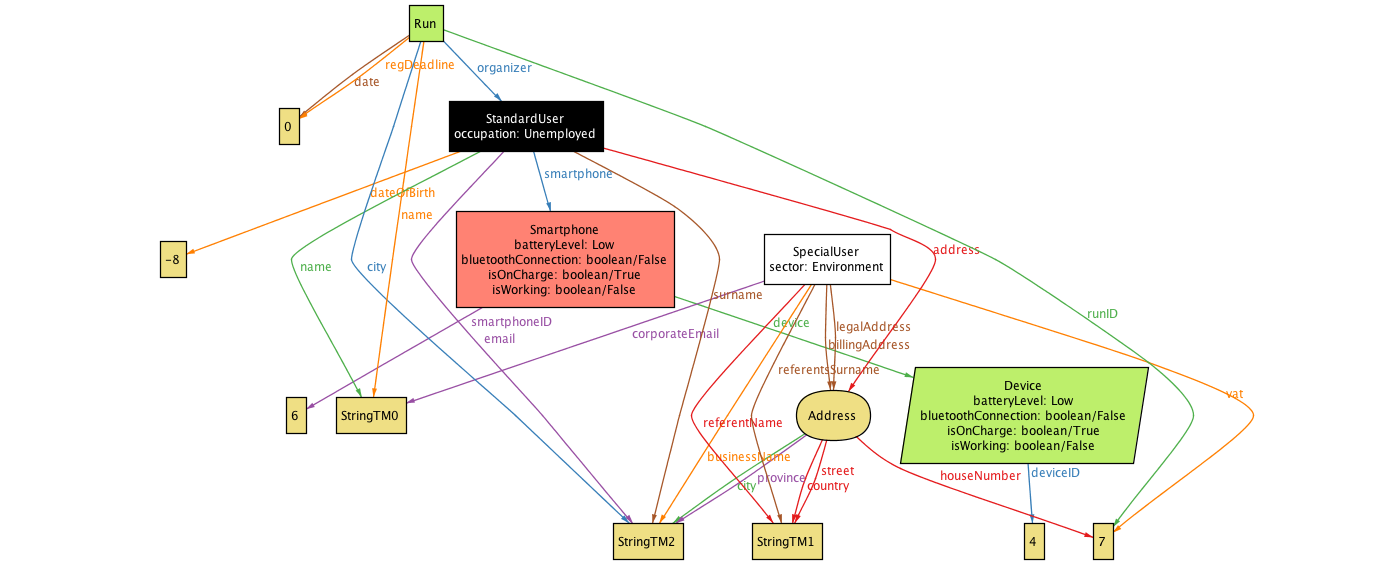
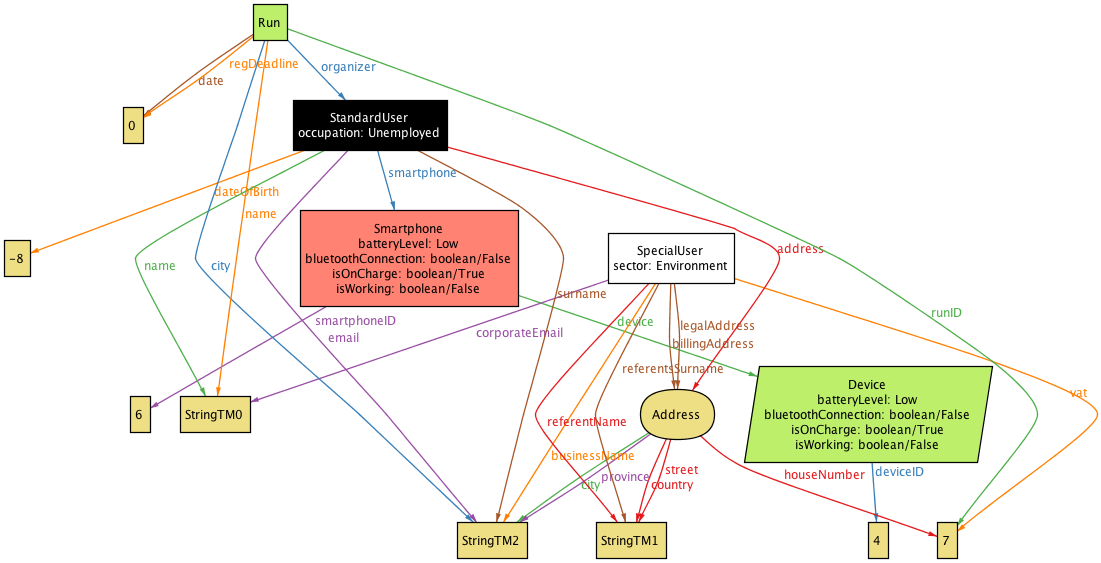
Final revision + delivery

diff --git a/RASD/files/introduction.tex b/RASD/files/introduction.tex
@@ -5,7 +5,7 @@ Track Me is a company that wants to develop three different but connected softwa
 \begin{itemize}
   \item \textbf{Data4Help}: a service that allows third parties to monitor the location and health status of individuals. Through this service third parties can request the access both to the data of some specific individuals, who can accept or refuse sharing their information , and to anonymized data of group of individuals, which will be given only if the number of the members of the group is higher than 1000, according to privacy rules.
   \item \textbf{AutomatedSOS}: a service addressed to elderly people which monitors the health status of the subscribed customers and, when such parameters are below a certain threshold (personalized for every user using the data from Data4Help), sends to the location of the customer an ambulance, guaranteeing a reaction time less than 5 second from the time the parameters are below the threshold.
-  % \clearpage
+  \clearpage
   \item \textbf{Track4Run}: a service to track athletes participating in a run. It allows organizers to define the path for a run, participants to enroll to a run and spectators to see on a map the position of all runners during the run. This service will exploit the features offered by Data4Help.
 \end{itemize}
 

diff --git a/RASD/files/overallDescription.tex b/RASD/files/overallDescription.tex
@@ -33,6 +33,7 @@ The wearable device must also integrate a reasonably precise heartbeat sensor an
 \item Web application and Track4Run have to interface also with Maps in order to generate the path for the run and to virtually follow a run;
 \item \textit{AutomatedSOS} has to interface with ambulance call external service.
 \end{itemize}
+\clearpage
 
 \section{Product Functions}
 The system is composed by several applications.
@@ -126,6 +127,7 @@ He must be informed about personal and sensible data collection that is carried 
 All the collected data must be kept safe and must not be accessible by unauthorized person.
 Also, third parties who access the service must guarantee the security of the data.
 The whole process must comply with the GDPR regulations for the protection of users' personal data.
+\clearpage
 
 \subsection{Hardware limitations}\label{hardwareLimitation}
 In order to use the service, user’s hardware should comply to these minimum requirements:

diff --git a/RASD/files/alloy.tex b/RASD/files/alloy.tex
@@ -224,12 +224,12 @@ At the end of the code, Class Diagram and Alloy generated World are shown.
    \label{img:generatedWorld4}
  \end{center}
  \end{figure}
- \clearpage
+\clearpage
 
 \section{Class Diagram}
 \begin{figure}[H]
   \begin{center}
-  	\includegraphics[width=\textwidth,height=0.60\paperheight]{./img/Class_Diagram.png}
+  	\includegraphics[width=\textwidth,height=0.58\paperheight,keepaspectratio]{./img/Class_Diagram.png}
 		\caption{\textit{Class diagram} of the structure of the system-to-be.}
     \hspace{0.05\linewidth}
     \centering

diff --git a/RASD/files/effort.tex b/RASD/files/effort.tex
@@ -61,11 +61,11 @@
     Functional Requirements & 14 \\ \hline
     User Interface Mockup & 4 \\ \hline
     Functional Requirements and Mockup revision & 4 \\ \hline
-    Activity Diagrams & 3 \\ \hline
+    Activity Diagrams & 4 \\ \hline
     Class Diagram & 2 \\ \hline
     Alloy & 2 \\ \hline
     Team work & 2 \\ \hline
-    Final revision & 2 \\ \hline
+    Final revision & 3 \\ \hline
     \textbf{Total} & \textbf{38} \\ \hline
 \end{tabular}
 \end{center}

diff --git a/RASD/files/functionalRequirements/deleteEnrolment.tex b/RASD/files/functionalRequirements/deleteEnrolment.tex
@@ -23,7 +23,7 @@ The \textit{Delete an Enrolment in a Run} mockup is shown in Figure \ref{img:del
   \item The system must let the \textbf{Runner} leave the elimination process at anytime.
 \end{enumerate}
 
-\begin{center}[H]
+\begin{center}
 \begin{table}
 \begin{tabular}{ | l | p{0.75\linewidth} | }
   \hline

diff --git a/RASD/files/functionalRequirements/criticalSituation.tex b/RASD/files/functionalRequirements/criticalSituation.tex
@@ -20,6 +20,7 @@ The \textit{Critical Situation} activity diagram is shown in Figure \ref{img:cri
 
 \myparagraph{Mockup}
 The \textit{Critical Situation} mockup is shown in Figure \ref{img:criticalSituationMockup}.
+\clearpage
 
 \myparagraph{Functional requirements}
 \begin{enumerate}

diff --git a/RASD/rasd.tex b/RASD/rasd.tex
@@ -89,7 +89,7 @@
 
 %Make the table of contents
 \setcounter{tocdepth}{1}
-\tableofcontents
+{\small\tableofcontents}
 
 %Introduction
 \chapter{Introduction}
